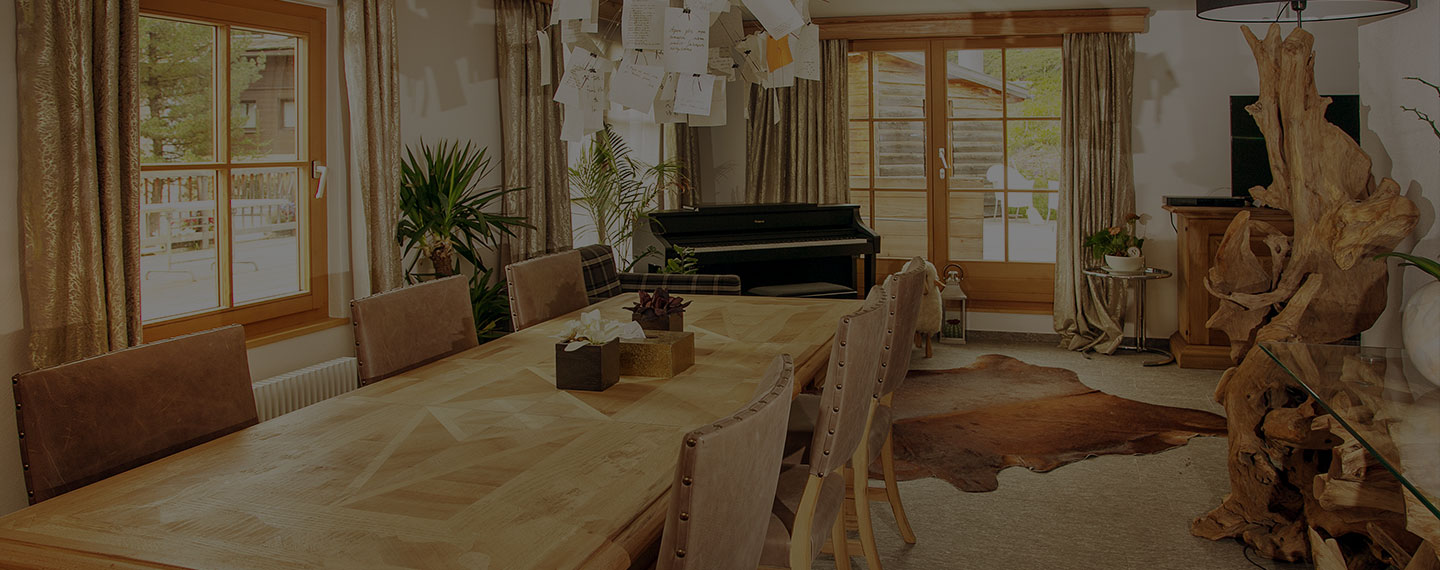
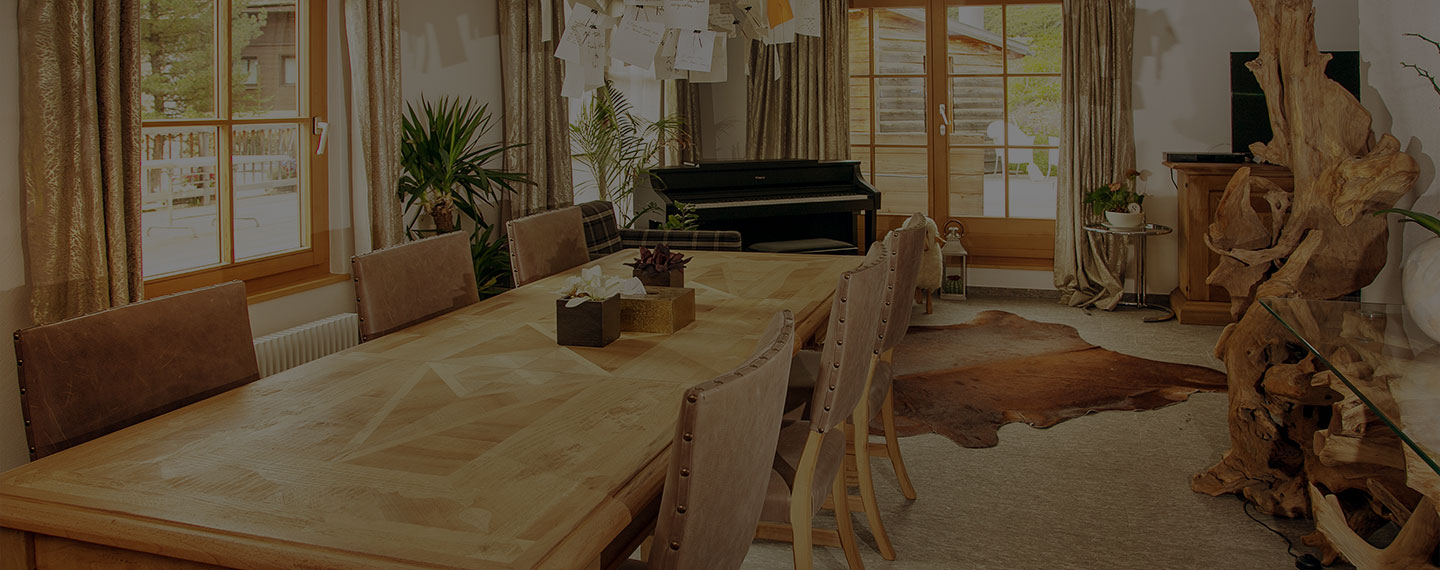
New pictures for apartments carousel

diff --git a/apartments.html b/apartments.html
@@ -33,15 +33,10 @@
         <img src="assets/apartment_logo.png" alt="Chesa Chantarella">
     </div>
     <div class="carousel-inner" role="listbox">
-        <div class="item active">
-            <img src="assets/ap_carousel01.jpg" alt="Carousel 1">
-        </div>
-        <div class="item">
-            <img src="assets/ap_carousel02.jpg" alt="Carousel 2">
-        </div>
-        <div class="item">
-            <img src="assets/ap_carousel03.jpg" alt="Carousel 3">
-        </div>
+        <div class="item active"><img src="assets/ap_carousel01.jpg" alt="Chesa Chantarella 1"></div>
+        <div class="item"><img src="assets/ap_carousel02.jpg" alt="Chesa Chantarella 2"></div>
+        <div class="item"><img src="assets/ap_carousel03.jpg" alt="Chesa Chantarella 3"></div>
+        <div class="item"><img src="assets/ap_carousel04.jpg" alt="Chesa Chantarella 4"></div>
     </div>
 
     <a class="left carousel-control" href="#carousel" role="button" data-slide="prev">
